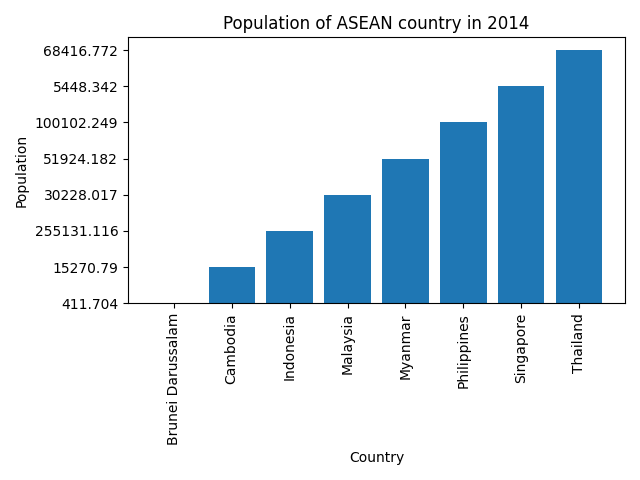
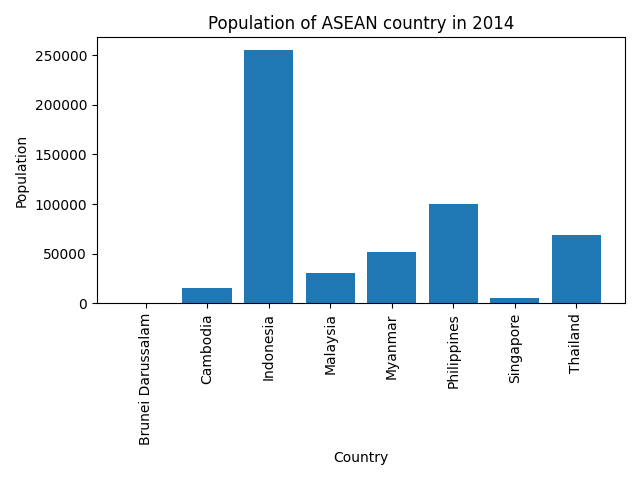
done SAARC country

diff --git a/src/asean_2014.py b/src/asean_2014.py
@@ -13,7 +13,7 @@ with open("../dataset/population-estimates_csv.csv", 'r') as file:
 
         if year == '2014':
             if country in ASEAN_COUNTRY:
-                asean_pop_2014[country] = population
+                asean_pop_2014[country] = int(float(population))
         # print(row)
     plt.bar(asean_pop_2014.keys(), asean_pop_2014.values())
     plt.xlabel("Country")

diff --git a/src/india.py b/src/india.py
@@ -1,8 +1,9 @@
+"""csv Matplotlib"""
 import csv
 import matplotlib.pyplot as plt
 
 def execute():
-    with open('../dataset/population-estimates_csv.csv', 'r') as file:
+    with open('../dataset/population-estimates_csv.csv', 'r', encoding="utf-8") as file:
         reader = csv.DictReader(file)
         india_over_the_year = {}
 

diff --git a/src/saarc_pop.py b/src/saarc_pop.py
@@ -23,3 +23,4 @@ with open('../dataset/population-estimates_csv.csv', 'r') as file:
     plt.xticks(rotation=90)
     plt.tight_layout()
     plt.savefig('../images/SAARC_over_the_year.png')
+    

diff --git a/README.md b/README.md
@@ -1,0 +1,25 @@
+# UN Population Analysis
+
+
+This project uses just two packages 
+* **CSV** to read the dataset
+
+``` 
+pip install csv
+
+```
+
+* **matplotlib.pyplot**  for ploting graphs 
+
+```
+pip install matplotlib
+
+```
+
+To run programes, just move to the source folder inside the src folder
+
+```
+cd src
+python3 filename.py
+
+```
